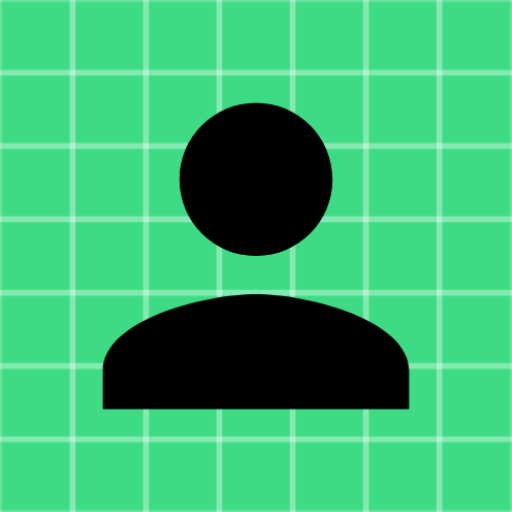
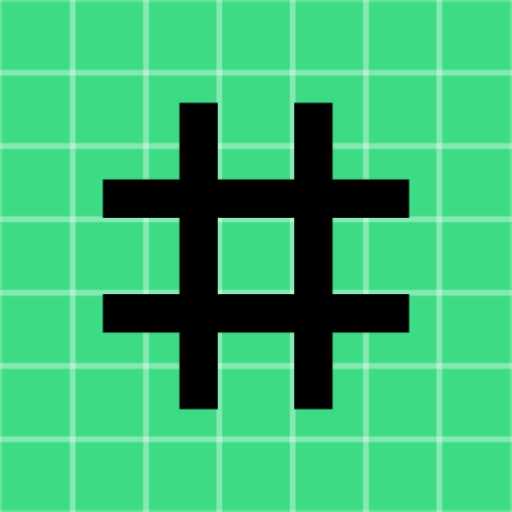
Add Establishment + code refactoring +  navbar improvements
Added "Add Establishment" activity, refactored some wrong activity names, improved the navbar graphics

Changed region(s): [[0.1875, 0.1875, 0.8125, 0.8125], [0.4062, 0.625, 0.5938, 0.8125]]

diff --git a/MyLocalBooking/app/src/main/java/uni/project/mylocalbooking/activities/BaseNavigationActivity.java b/MyLocalBooking/app/src/main/java/uni/project/mylocalbooking/activities/BaseNavigationActivity.java
@@ -10,10 +10,10 @@ import android.view.MenuItem;
 import com.google.android.material.bottomnavigation.BottomNavigationView;
 
 import uni.project.mylocalbooking.R;
-import uni.project.mylocalbooking.activities.client.HomeClient;
-import uni.project.mylocalbooking.activities.client.ProfileClient;
-import uni.project.mylocalbooking.activities.provider.HomeProvider;
-import uni.project.mylocalbooking.activities.provider.ProfileProvider;
+import uni.project.mylocalbooking.activities.client.HomeClientActivity;
+import uni.project.mylocalbooking.activities.client.ProfileClientActivity;
+import uni.project.mylocalbooking.activities.provider.HomeProviderActivity;
+import uni.project.mylocalbooking.activities.provider.ProfileProviderActivity;
 
 public abstract class BaseNavigationActivity extends AppCompatActivity {
 
@@ -39,12 +39,12 @@ public abstract class BaseNavigationActivity extends AppCompatActivity {
             switch (item.getItemId()) {
                 // Home Client
                 case R.id.homeClient:
-                    intent = new Intent(getBaseContext(), HomeClient.class);
+                    intent = new Intent(getBaseContext(), HomeClientActivity.class);
                     startActivity(intent);
                     return true;
                 // Profile Client
                 case R.id.profileClient:
-                    intent = new Intent(getBaseContext(), ProfileClient.class);
+                    intent = new Intent(getBaseContext(), ProfileClientActivity.class);
                     startActivity(intent);
                     return true;
                 // Reservations
@@ -52,11 +52,11 @@ public abstract class BaseNavigationActivity extends AppCompatActivity {
                     //intent = new Intent(getBaseContext(), TO-DO);
                     return true;
                 case R.id.homeProvider:
-                    intent = new Intent(getBaseContext(), HomeProvider.class);
+                    intent = new Intent(getBaseContext(), HomeProviderActivity.class);
                     startActivity(intent);
                     return true;
                 case R.id.profileProvider:
-                    intent = new Intent(getBaseContext(), ProfileProvider.class);
+                    intent = new Intent(getBaseContext(), ProfileProviderActivity.class);
                     startActivity(intent);
                     return true;
             }finish();

diff --git a/MyLocalBooking/app/src/main/java/uni/project/mylocalbooking/activities/provider/AddEstablishmentActivity.java b/MyLocalBooking/app/src/main/java/uni/project/mylocalbooking/activities/provider/AddEstablishmentActivity.java
@@ -1,0 +1,33 @@
+package uni.project.mylocalbooking.activities.provider;
+
+import android.content.Intent;
+import android.os.Bundle;
+import android.view.View;
+import android.widget.Button;
+
+import com.google.android.material.floatingactionbutton.FloatingActionButton;
+
+import uni.project.mylocalbooking.MyLocalBooking;
+import uni.project.mylocalbooking.R;
+import uni.project.mylocalbooking.activities.BaseNavigationActivity;
+
+public class AddEstablishmentActivity extends BaseNavigationActivity {
+
+    private FloatingActionButton backButton;
+
+    @Override
+    protected void onCreate(Bundle savedInstanceState) {
+        super.onCreate(savedInstanceState);
+        backButton = findViewById(R.id.backButton);
+        backButton.setOnClickListener(new View.OnClickListener() {
+            @Override
+            public void onClick(View view) {
+                startActivity(new Intent(MyLocalBooking.getAppContext(), HomeProviderActivity.class));
+            }
+        });
+    }
+
+    public int getContentViewId(){ return R.layout.activity_add_establishment; }
+
+    public int getNavigationMenuItemId(){ return R.id.homeProvider; }
+}

diff --git a/MyLocalBooking/app/src/main/java/uni/project/mylocalbooking/activities/provider/HomeProviderActivity.java b/MyLocalBooking/app/src/main/java/uni/project/mylocalbooking/activities/provider/HomeProviderActivity.java
@@ -1,0 +1,31 @@
+package uni.project.mylocalbooking.activities.provider;
+
+import android.content.Intent;
+import android.os.Bundle;
+import android.view.View;
+import android.widget.Button;
+
+import uni.project.mylocalbooking.MyLocalBooking;
+import uni.project.mylocalbooking.R;
+import uni.project.mylocalbooking.activities.BaseNavigationActivity;
+
+public class HomeProviderActivity extends BaseNavigationActivity {
+
+    private Button addButton;
+
+    @Override
+    protected void onCreate(Bundle savedInstanceState) {
+        super.onCreate(savedInstanceState);
+        addButton = findViewById(R.id.addButton);
+        addButton.setOnClickListener(new View.OnClickListener() {
+            @Override
+            public void onClick(View view) {
+                startActivity(new Intent(MyLocalBooking.getAppContext(), AddEstablishmentActivity.class));
+            }
+        });
+    }
+
+    public int getContentViewId(){ return R.layout.activity_home_provider;}
+
+    protected int getNavigationMenuItemId(){ return R.id.homeProvider;}
+}

diff --git a/MyLocalBooking/app/src/main/java/uni/project/mylocalbooking/activities/provider/ProfileProviderActivity.java b/MyLocalBooking/app/src/main/java/uni/project/mylocalbooking/activities/provider/ProfileProviderActivity.java
@@ -1,20 +1,22 @@
 package uni.project.mylocalbooking.activities.provider;
 
-import androidx.appcompat.app.AppCompatActivity;
-
 import android.os.Bundle;
 
 import uni.project.mylocalbooking.R;
 import uni.project.mylocalbooking.activities.BaseNavigationActivity;
 
-public class HomeProvider extends BaseNavigationActivity {
+public class ProfileProviderActivity extends BaseNavigationActivity {
 
     @Override
     protected void onCreate(Bundle savedInstanceState) {
         super.onCreate(savedInstanceState);
     }
 
-    public int getContentViewId(){ return R.layout.activity_home_provider;}
+    public int getContentViewId(){
+        return R.layout.activity_profile_provider;
+    }
 
-    protected int getNavigationMenuItemId(){ return R.id.homeProvider;}
+    public int getNavigationMenuItemId(){
+        return R.id.profileProvider;
+    }
 }

diff --git a/MyLocalBooking/app/src/main/java/uni/project/mylocalbooking/activities/client/ProfileClientActivity.java b/MyLocalBooking/app/src/main/java/uni/project/mylocalbooking/activities/client/ProfileClientActivity.java
@@ -1,11 +1,11 @@
-package uni.project.mylocalbooking.activities.provider;
+package uni.project.mylocalbooking.activities.client;
 
 import android.os.Bundle;
 
 import uni.project.mylocalbooking.R;
 import uni.project.mylocalbooking.activities.BaseNavigationActivity;
 
-public class ProfileProvider extends BaseNavigationActivity {
+public class ProfileClientActivity extends BaseNavigationActivity {
 
     @Override
     protected void onCreate(Bundle savedInstanceState) {
@@ -13,10 +13,10 @@ public class ProfileProvider extends BaseNavigationActivity {
     }
 
     public int getContentViewId(){
-        return R.layout.activity_profile_provider;
+        return R.layout.activity_profile_client;
     }
 
     public int getNavigationMenuItemId(){
-        return R.id.profileProvider;
+        return R.id.profileClient;
     }
 }

diff --git a/MyLocalBooking/app/src/main/java/uni/project/mylocalbooking/activities/HomeActivity.java b/MyLocalBooking/app/src/main/java/uni/project/mylocalbooking/activities/HomeActivity.java
@@ -7,7 +7,7 @@ import android.os.Bundle;
 import android.view.View;
 import android.widget.Button;
 
-import uni.project.mylocalbooking.activities.client.HomeClient;
+import uni.project.mylocalbooking.activities.client.HomeClientActivity;
 import uni.project.mylocalbooking.activities.client.LandReviewActivity;
 import uni.project.mylocalbooking.activities.provider.BlackListActivity;
 
@@ -104,7 +104,7 @@ public class HomeActivity extends AppCompatActivity {
     }
 
     protected void openHomeClient(){
-        Intent intent = new Intent(this, HomeClient.class);
+        Intent intent = new Intent(this, HomeClientActivity.class);
         System.out.println("Opening Home Client Comir");
         startActivity(intent);
     }

diff --git a/MyLocalBooking/app/src/main/java/uni/project/mylocalbooking/activities/client/HomeClientActivity.java b/MyLocalBooking/app/src/main/java/uni/project/mylocalbooking/activities/client/HomeClientActivity.java
@@ -6,7 +6,7 @@ import android.widget.TextView;
 import uni.project.mylocalbooking.R;
 import uni.project.mylocalbooking.activities.BaseNavigationActivity;
 
-public class HomeClient extends BaseNavigationActivity {
+public class HomeClientActivity extends BaseNavigationActivity {
 
     private TextView username; // Testing
 
